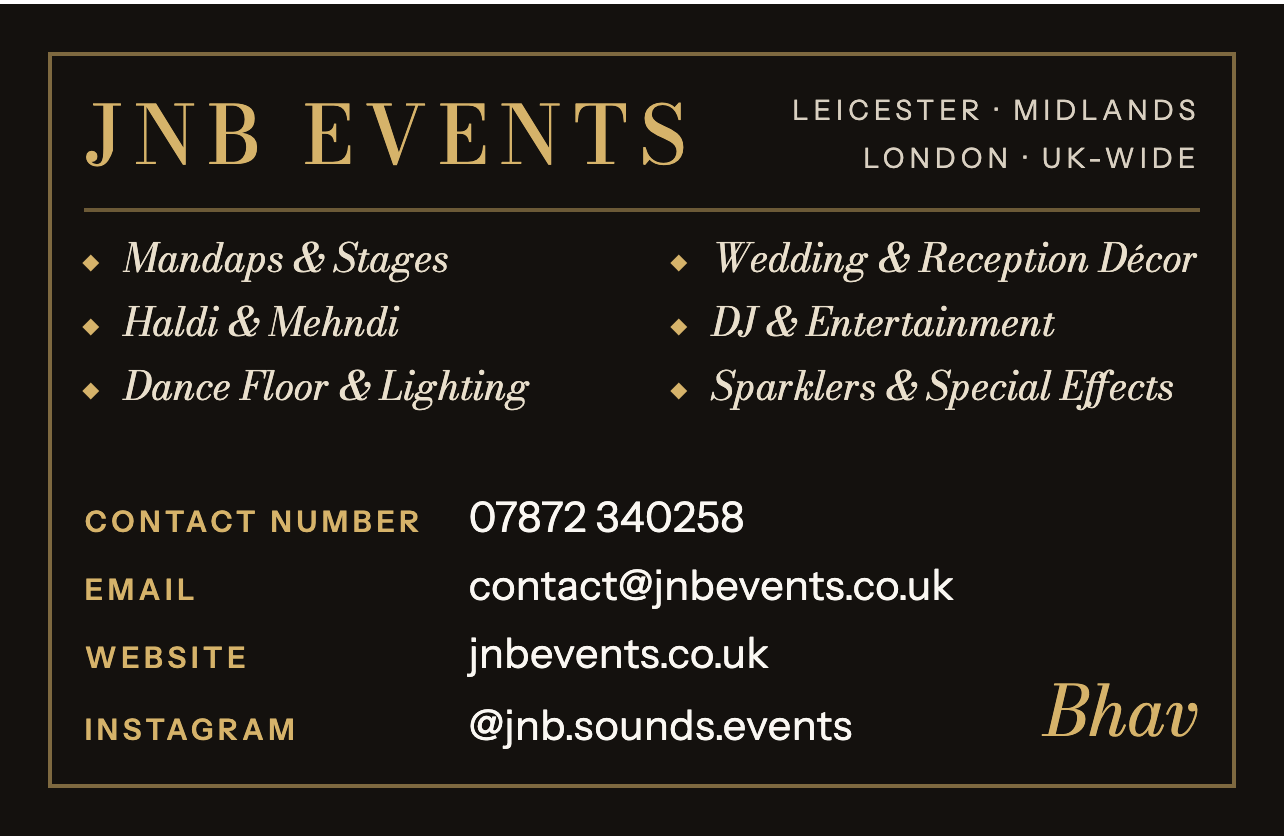
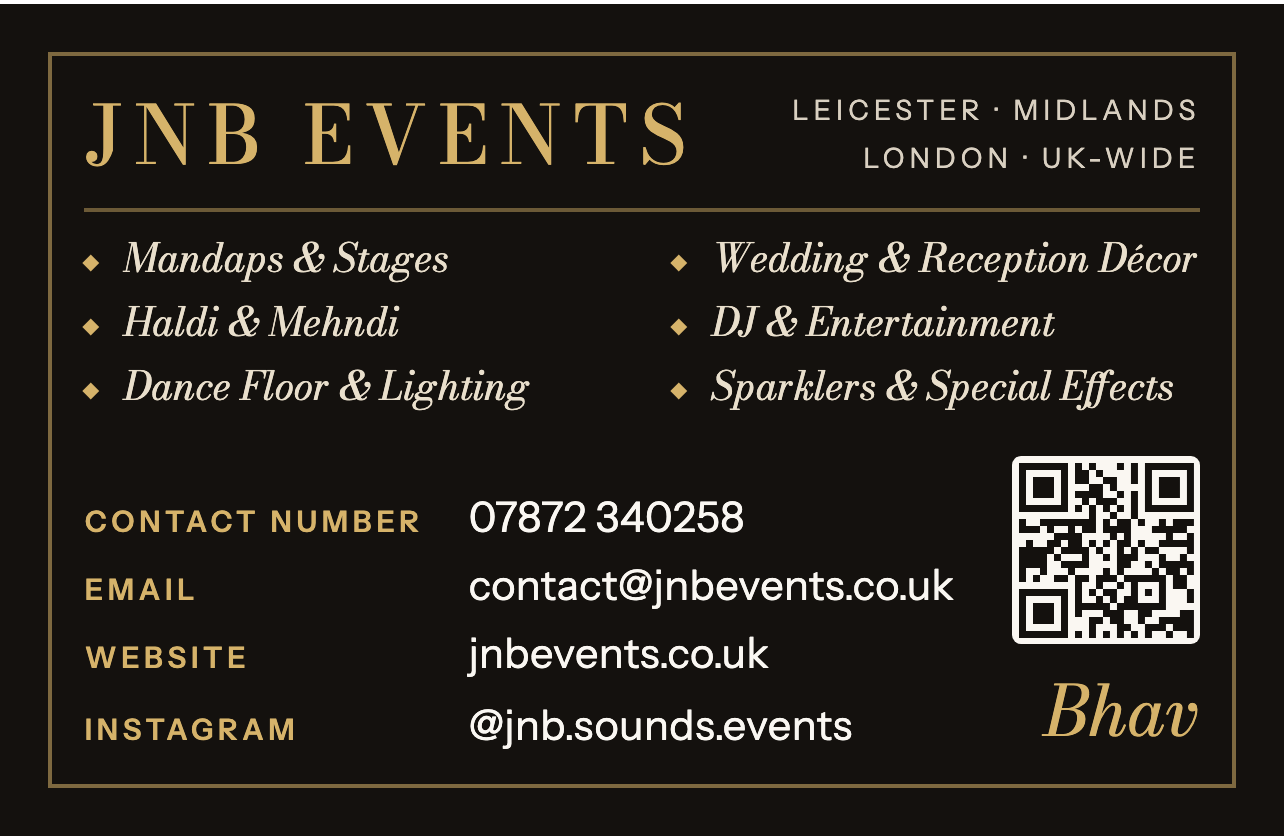
feat(brand): add website QR code to business card back
QR (uqr, dev dependency) encodes https://jnbevents.co.uk/ and was verified
to decode from the rendered card.

Changed region(s): [[0.7764, 0.5287, 0.9317, 0.7775]]

diff --git a/brand/business-card/card.html b/brand/business-card/card.html
@@ -23,6 +23,8 @@ html,body{background:#fff}
 .head{display:flex;justify-content:space-between;align-items:center}
 .area{font-size:5.2pt;letter-spacing:.18em;text-transform:uppercase;line-height:1.7;color:#d9d0c1;text-align:right}
 .title{font-family:Bodoni,serif;font-weight:500;font-size:15pt;line-height:1;color:#d6b36a;letter-spacing:.14em;text-transform:uppercase}
+.qr{position:absolute;right:0;bottom:7mm;width:12.5mm;height:12.5mm;border-radius:0.6mm;overflow:hidden;line-height:0}
+.qr svg{width:100%;height:100%;display:block}
 .person{position:absolute;right:0;bottom:0;font-family:Bodoni,serif;font-style:italic;font-size:13pt;line-height:1;color:#d6b36a}
 .rule{height:0.25mm;width:100%;background:rgba(214,179,106,.45);margin:1.6mm 0 1.6mm}
 .svc{list-style:none;display:grid;grid-template-columns:1fr 1fr;column-gap:4mm;row-gap:0.9mm;font-family:Bodoni,serif;font-style:italic;font-size:7.4pt;line-height:1.3;color:#e9dfcc}
@@ -39,6 +41,7 @@ html,body{background:#fff}
     <div class="rule"></div>
     <ul class="svc"><li>Mandaps &amp; Stages</li><li>Wedding &amp; Reception Décor</li><li>Haldi &amp; Mehndi</li><li>DJ &amp; Entertainment</li><li>Dance Floor &amp; Lighting</li><li>Sparklers &amp; Special Effects</li></ul>
   </div>
+  <div class="qr" role="img" aria-label="QR code for jnbevents.co.uk"><svg xmlns="http://www.w3.org/2000/svg" viewBox="0 0 270 270"><rect fill="#faf7f2" width="270" height="270"/><path fill="#14110e" d="M10,10h10v10h-10zM20,10h10v10h-10zM30,10h10v10h-10zM40,10h10v10h-10zM50,10h10v10h-10zM60,10h10v10h-10zM70,10h10v10h-10zM90,10h10v10h-10zM110,10h10v10h-10zM150,10h10v10h-10zM170,10h10v10h-10zM190,10h10v10h-10zM200,10h10v10h-10zM210,10h10v10h-10zM220,10h10v10h-10zM230,10h10v10h-10zM240,10h10v10h-10zM250,10h10v10h-10zM10,20h10v10h-10zM70,20h10v10h-10zM90,20h10v10h-10zM100,20h10v10h-10zM120,20h10v10h-10zM170,20h10v10h-10zM190,20h10v10h-10zM250,20h10v10h-10zM10,30h10v10h-10zM30,30h10v10h-10zM40,30h10v10h-10zM50,30h10v10h-10zM70,30h10v10h-10zM90,30h10v10h-10zM100,30h10v10h-10zM130,30h10v10h-10zM140,30h10v10h-10zM170,30h10v10h-10zM190,30h10v10h-10zM210,30h10v10h-10zM220,30h10v10h-10zM230,30h10v10h-10zM250,30h10v10h-10zM10,40h10v10h-10zM30,40h10v10h-10zM40,40h10v10h-10zM50,40h10v10h-10zM70,40h10v10h-10zM110,40h10v10h-10zM120,40h10v10h-10zM140,40h10v10h-10zM190,40h10v10h-10zM210,40h10v10h-10zM220,40h10v10h-10zM230,40h10v10h-10zM250,40h10v10h-10zM10,50h10v10h-10zM30,50h10v10h-10zM40,50h10v10h-10zM50,50h10v10h-10zM70,50h10v10h-10zM90,50h10v10h-10zM100,50h10v10h-10zM110,50h10v10h-10zM120,50h10v10h-10zM150,50h10v10h-10zM170,50h10v10h-10zM190,50h10v10h-10zM210,50h10v10h-10zM220,50h10v10h-10zM230,50h10v10h-10zM250,50h10v10h-10zM10,60h10v10h-10zM70,60h10v10h-10zM100,60h10v10h-10zM120,60h10v10h-10zM130,60h10v10h-10zM140,60h10v10h-10zM170,60h10v10h-10zM190,60h10v10h-10zM250,60h10v10h-10zM10,70h10v10h-10zM20,70h10v10h-10zM30,70h10v10h-10zM40,70h10v10h-10zM50,70h10v10h-10zM60,70h10v10h-10zM70,70h10v10h-10zM90,70h10v10h-10zM110,70h10v10h-10zM130,70h10v10h-10zM150,70h10v10h-10zM170,70h10v10h-10zM190,70h10v10h-10zM200,70h10v10h-10zM210,70h10v10h-10zM220,70h10v10h-10zM230,70h10v10h-10zM240,70h10v10h-10zM250,70h10v10h-10zM110,80h10v10h-10zM140,80h10v10h-10zM170,80h10v10h-10zM10,90h10v10h-10zM40,90h10v10h-10zM50,90h10v10h-10zM60,90h10v10h-10zM70,90h10v10h-10zM80,90h10v10h-10zM90,90h10v10h-10zM100,90h10v10h-10zM110,90h10v10h-10zM130,90h10v10h-10zM150,90h10v10h-10zM160,90h10v10h-10zM180,90h10v10h-10zM210,90h10v10h-10zM230,90h10v10h-10zM240,90h10v10h-10zM250,90h10v10h-10zM10,100h10v10h-10zM20,100h10v10h-10zM30,100h10v10h-10zM50,100h10v10h-10zM80,100h10v10h-10zM100,100h10v10h-10zM110,100h10v10h-10zM130,100h10v10h-10zM140,100h10v10h-10zM150,100h10v10h-10zM160,100h10v10h-10zM200,100h10v10h-10zM210,100h10v10h-10zM220,100h10v10h-10zM230,100h10v10h-10zM240,100h10v10h-10zM60,110h10v10h-10zM70,110h10v10h-10zM80,110h10v10h-10zM90,110h10v10h-10zM140,110h10v10h-10zM160,110h10v10h-10zM220,110h10v10h-10zM250,110h10v10h-10zM20,120h10v10h-10zM50,120h10v10h-10zM60,120h10v10h-10zM80,120h10v10h-10zM90,120h10v10h-10zM110,120h10v10h-10zM130,120h10v10h-10zM150,120h10v10h-10zM160,120h10v10h-10zM180,120h10v10h-10zM210,120h10v10h-10zM220,120h10v10h-10zM230,120h10v10h-10zM240,120h10v10h-10zM250,120h10v10h-10zM10,130h10v10h-10zM20,130h10v10h-10zM30,130h10v10h-10zM40,130h10v10h-10zM50,130h10v10h-10zM70,130h10v10h-10zM80,130h10v10h-10zM90,130h10v10h-10zM100,130h10v10h-10zM120,130h10v10h-10zM150,130h10v10h-10zM170,130h10v10h-10zM190,130h10v10h-10zM200,130h10v10h-10zM250,130h10v10h-10zM10,140h10v10h-10zM20,140h10v10h-10zM30,140h10v10h-10zM40,140h10v10h-10zM60,140h10v10h-10zM100,140h10v10h-10zM130,140h10v10h-10zM150,140h10v10h-10zM160,140h10v10h-10zM170,140h10v10h-10zM210,140h10v10h-10zM240,140h10v10h-10zM10,150h10v10h-10zM20,150h10v10h-10zM30,150h10v10h-10zM40,150h10v10h-10zM70,150h10v10h-10zM80,150h10v10h-10zM90,150h10v10h-10zM100,150h10v10h-10zM150,150h10v10h-10zM160,150h10v10h-10zM190,150h10v10h-10zM210,150h10v10h-10zM220,150h10v10h-10zM230,150h10v10h-10zM240,150h10v10h-10zM250,150h10v10h-10zM10,160h10v10h-10zM40,160h10v10h-10zM80,160h10v10h-10zM130,160h10v10h-10zM150,160h10v10h-10zM200,160h10v10h-10zM220,160h10v10h-10zM230,160h10v10h-10zM250,160h10v10h-10zM10,170h10v10h-10zM30,170h10v10h-10zM60,170h10v10h-10zM70,170h10v10h-10zM90,170h10v10h-10zM100,170h10v10h-10zM120,170h10v10h-10zM130,170h10v10h-10zM140,170h10v10h-10zM160,170h10v10h-10zM170,170h10v10h-10zM180,170h10v10h-10zM190,170h10v10h-10zM200,170h10v10h-10zM210,170h10v10h-10zM230,170h10v10h-10zM240,170h10v10h-10zM90,180h10v10h-10zM120,180h10v10h-10zM150,180h10v10h-10zM170,180h10v10h-10zM210,180h10v10h-10zM230,180h10v10h-10zM240,180h10v10h-10zM10,190h10v10h-10zM20,190h10v10h-10zM30,190h10v10h-10zM40,190h10v10h-10zM50,190h10v10h-10zM60,190h10v10h-10zM70,190h10v10h-10zM90,190h10v10h-10zM110,190h10v10h-10zM130,190h10v10h-10zM140,190h10v10h-10zM170,190h10v10h-10zM190,190h10v10h-10zM210,190h10v10h-10zM250,190h10v10h-10zM10,200h10v10h-10zM70,200h10v10h-10zM90,200h10v10h-10zM120,200h10v10h-10zM140,200h10v10h-10zM160,200h10v10h-10zM170,200h10v10h-10zM210,200h10v10h-10zM250,200h10v10h-10zM10,210h10v10h-10zM30,210h10v10h-10zM40,210h10v10h-10zM50,210h10v10h-10zM70,210h10v10h-10zM90,210h10v10h-10zM100,210h10v10h-10zM110,210h10v10h-10zM120,210h10v10h-10zM130,210h10v10h-10zM150,210h10v10h-10zM160,210h10v10h-10zM170,210h10v10h-10zM180,210h10v10h-10zM190,210h10v10h-10zM200,210h10v10h-10zM210,210h10v10h-10zM10,220h10v10h-10zM30,220h10v10h-10zM40,220h10v10h-10zM50,220h10v10h-10zM70,220h10v10h-10zM90,220h10v10h-10zM130,220h10v10h-10zM140,220h10v10h-10zM150,220h10v10h-10zM180,220h10v10h-10zM190,220h10v10h-10zM240,220h10v10h-10zM250,220h10v10h-10zM10,230h10v10h-10zM30,230h10v10h-10zM40,230h10v10h-10zM50,230h10v10h-10zM70,230h10v10h-10zM110,230h10v10h-10zM120,230h10v10h-10zM140,230h10v10h-10zM150,230h10v10h-10zM180,230h10v10h-10zM210,230h10v10h-10zM220,230h10v10h-10zM230,230h10v10h-10zM240,230h10v10h-10zM250,230h10v10h-10zM10,240h10v10h-10zM70,240h10v10h-10zM110,240h10v10h-10zM150,240h10v10h-10zM160,240h10v10h-10zM190,240h10v10h-10zM200,240h10v10h-10zM210,240h10v10h-10zM230,240h10v10h-10zM240,240h10v10h-10zM250,240h10v10h-10zM10,250h10v10h-10zM20,250h10v10h-10zM30,250h10v10h-10zM40,250h10v10h-10zM50,250h10v10h-10zM60,250h10v10h-10zM70,250h10v10h-10zM90,250h10v10h-10zM110,250h10v10h-10zM130,250h10v10h-10zM150,250h10v10h-10zM170,250h10v10h-10zM190,250h10v10h-10zM220,250h10v10h-10zM250,250h10v10h-10z"/></svg></div>
   <p class="person">Bhav</p>
   <dl class="rows">
     <dt>Contact number</dt><dd>07872 340258</dd>
